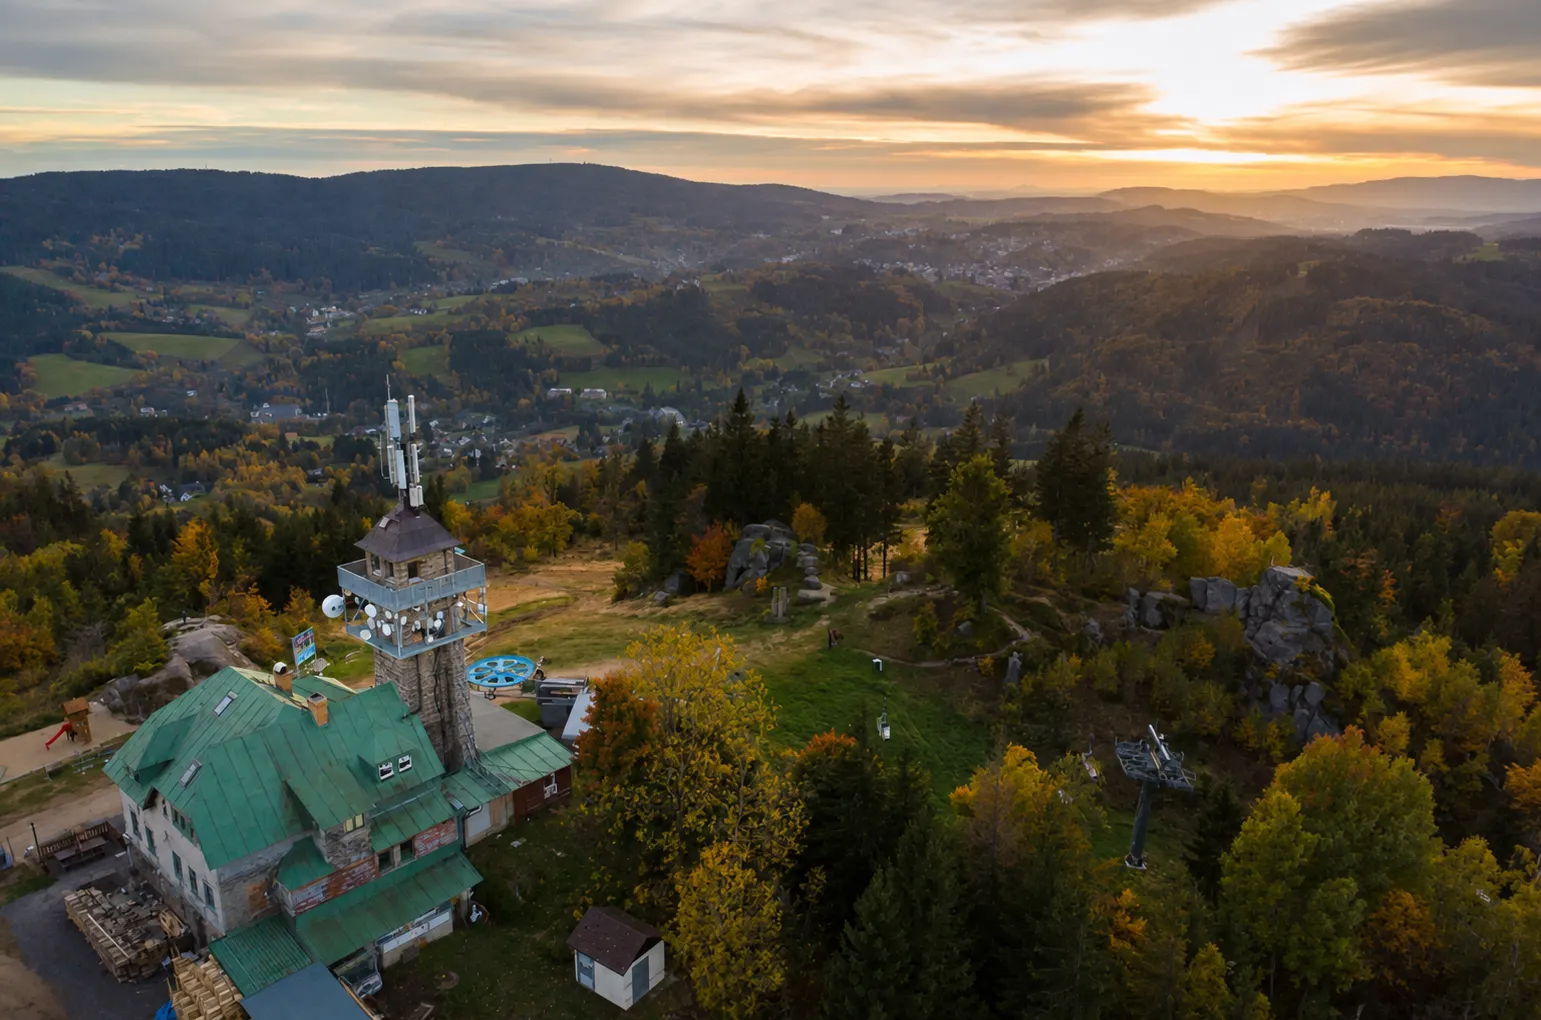
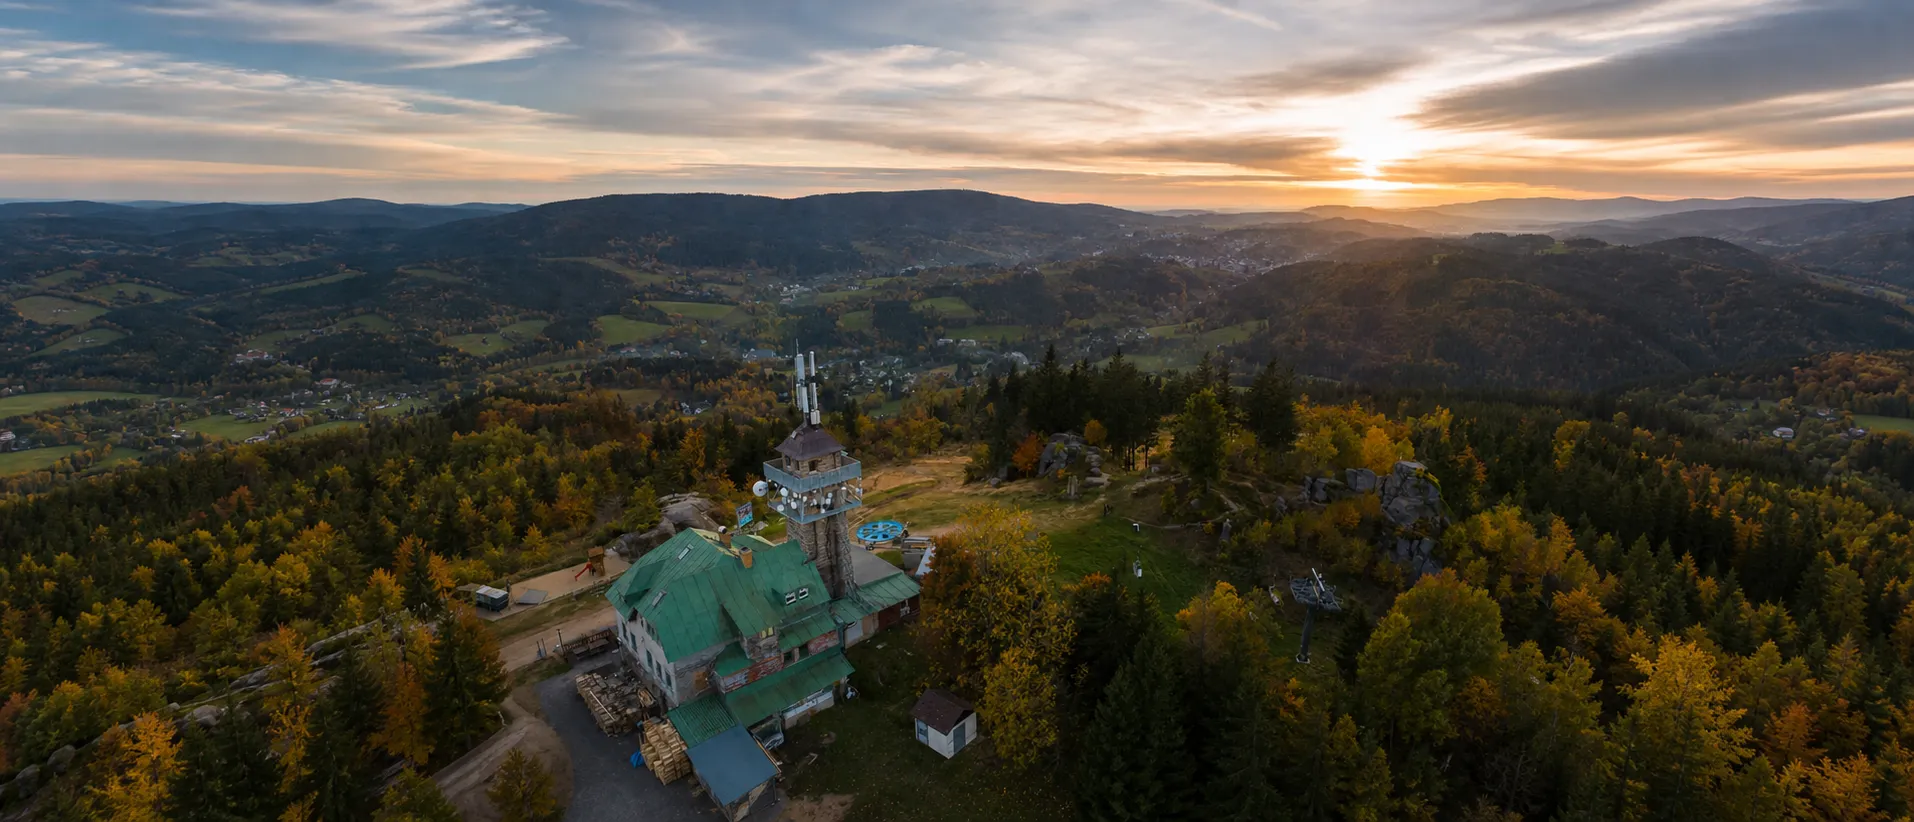
feat: implement Page Visibility API for background video auto-pausing and update video source to hero_master_v5.mp4

diff --git a/src/main.js b/src/main.js
@@ -428,10 +428,10 @@ const getHomePageHTML = () => `
       playsinline 
       preload="auto" 
       fetchpriority="high"
-      poster="/Uvodni stranka/Uvodní fotka - hero sekce.webp"
+      poster="/Uvodni stranka/Uvodní fotka - hero sekce.webp"
     >
+      <source src="https://jpvnvjcktpxyxrvsdukm.supabase.co/storage/v1/object/public/hotel-videos/hero_master_v5.mp4" type="video/mp4">
       <source src="/videos/hero_video.mp4" type="video/mp4">
-      <source src="https://jpvnvjcktpxyxrvsdukm.supabase.co/storage/v1/object/public/hotel-videos/Video%20Hero%20sekce.mp4" type="video/mp4">
     </video>
     <div class="hero-overlay"></div>
     <div class="hero-inner">
@@ -642,10 +642,14 @@ const initInteractivity = () => {
   if (heroVideo) {
     heroVideo.playbackRate = 0.85;
     heroVideo.play().catch(() => {});
+
+    let isHeroInView = true;
+
     if ('IntersectionObserver' in window && heroSection) {
       const videoObserver = new IntersectionObserver((entries) => {
         entries.forEach(entry => {
-          if (entry.isIntersecting) {
+          isHeroInView = entry.isIntersecting;
+          if (isHeroInView && !document.hidden) {
             heroVideo.playbackRate = 0.85;
             heroVideo.play().catch(() => {});
           } else {
@@ -655,6 +659,16 @@ const initInteractivity = () => {
       }, { threshold: 0.05 });
       videoObserver.observe(heroSection);
     }
+
+    // Page Visibility API - automatické pozastavení při překliku do jiné aplikace nebo záložky
+    document.addEventListener('visibilitychange', () => {
+      if (document.hidden) {
+        heroVideo.pause();
+      } else if (isHeroInView) {
+        heroVideo.playbackRate = 0.85;
+        heroVideo.play().catch(() => {});
+      }
+    });
   }
 
   // Reviews Slider

diff --git a/index.html b/index.html
@@ -9,6 +9,7 @@
 
     <!-- High-Priority Preloading pro okamžité LCP načtení Hero sekce -->
     <link rel="preload" href="/Uvodni stranka/Uvodní fotka - hero sekce.webp" as="image" fetchpriority="high">
+    <link rel="preload" href="https://jpvnvjcktpxyxrvsdukm.supabase.co/storage/v1/object/public/hotel-videos/hero_master_v5.mp4" as="video" type="video/mp4">
     <link rel="preload" href="/mobil hezky pokoj.webp" as="image" fetchpriority="high">
     <link rel="preload" href="/hezky pokoj 1.webp" as="image" fetchpriority="high">
 